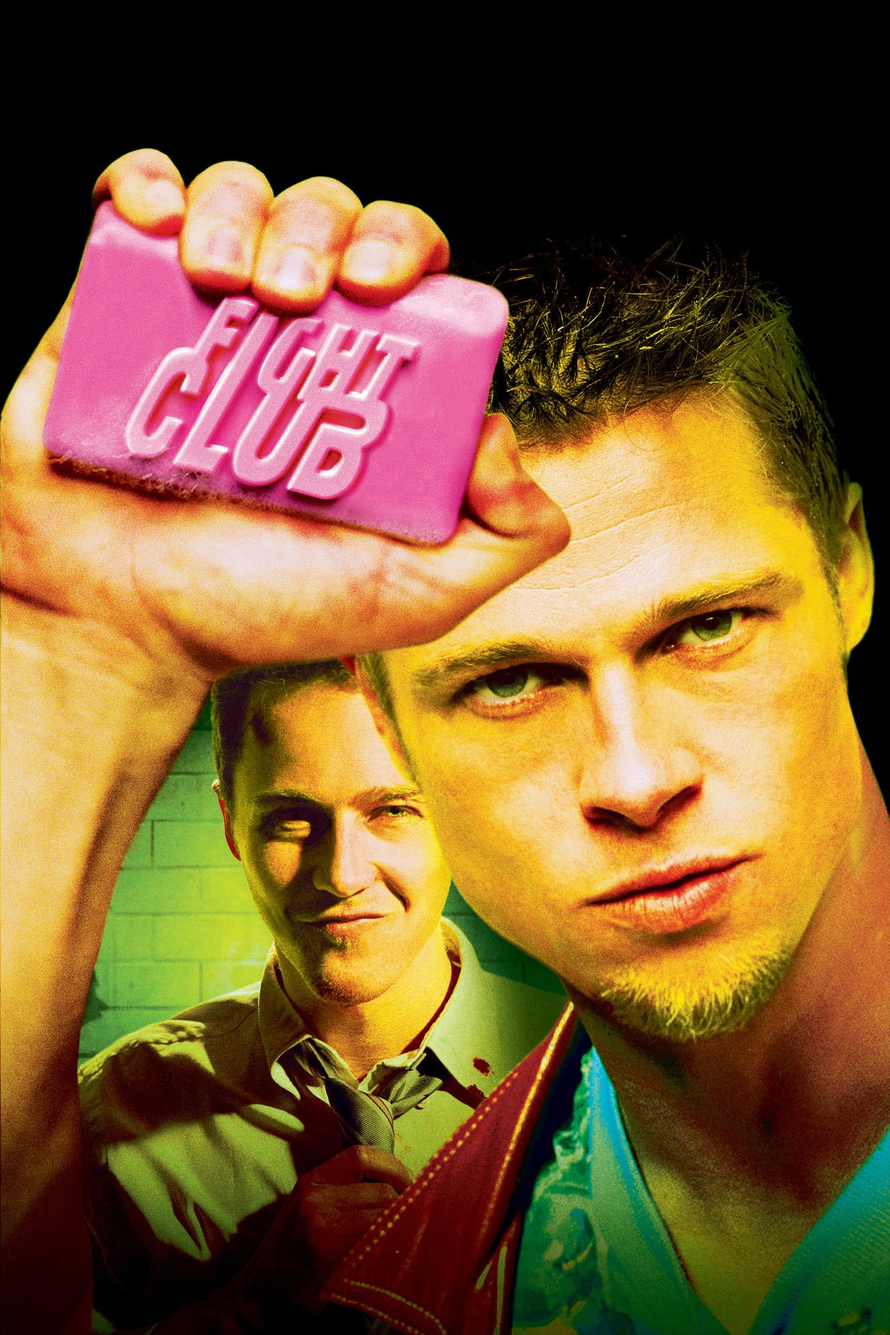
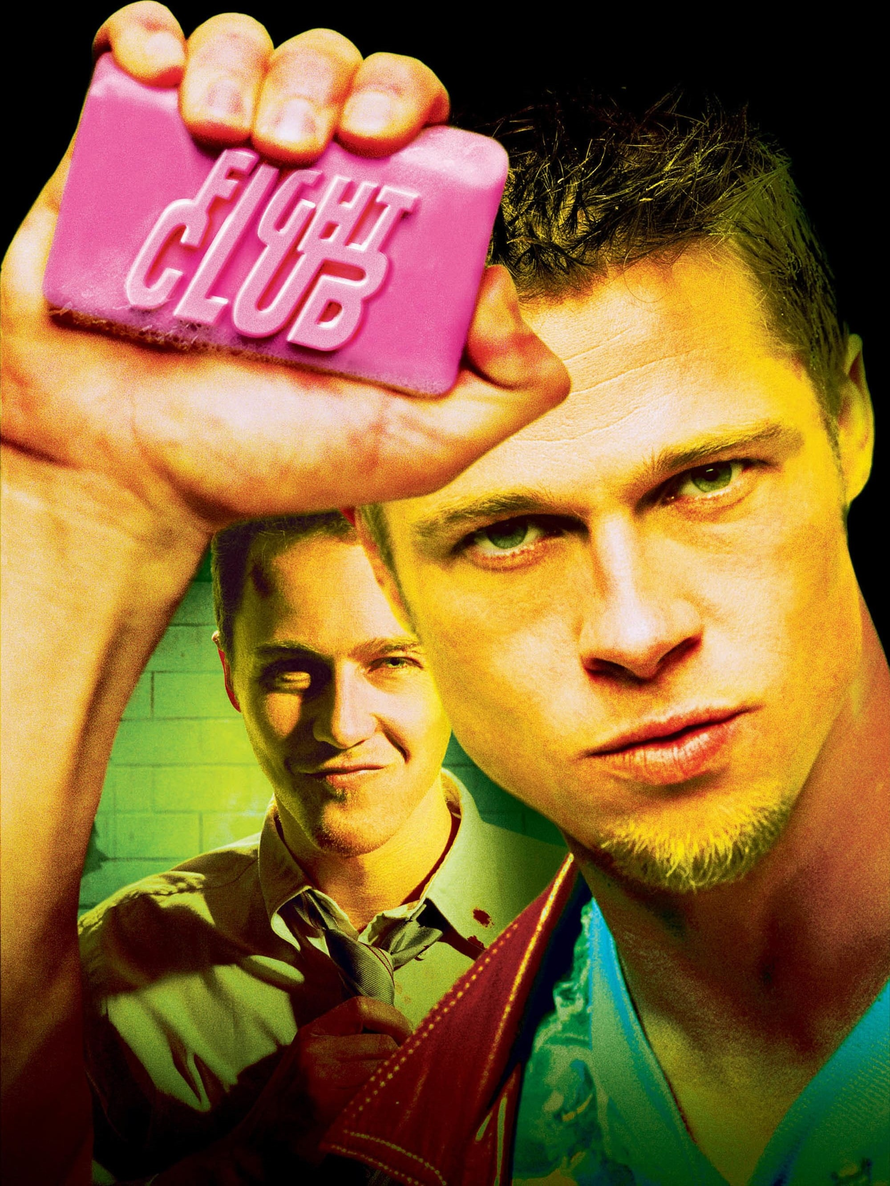
catalogo

diff --git a/css/estilo.css b/css/estilo.css
@@ -28,9 +28,11 @@ body {
 .imagem-formato {
   min-width: 100px;
   min-height: 100px;
-  max-width: 700px;
-  max-height: 700px;
+  max-width: 600px;
+  max-height: 600px;
 }
+
+
 
 #camera {
   width: 400px;
@@ -66,11 +68,12 @@ body {
 
 
 .container {
-  margin: 10px;
+  margin: 40px;
+  padding: 20px;
   display: flex;
   background-color: lightgray;
   justify-content: center;
-  align-content:center;
+  align-items: center;
 }
 
 .content{

diff --git a/catalogo/index.html b/catalogo/index.html
@@ -16,7 +16,7 @@
             Fight Club
         </div>
         <div class="bloco-imagem">
-          <img
+          <img src="../images/clube da luta.jpg" class="imagem-formato">
         </div>
         <hr>
       </div>
